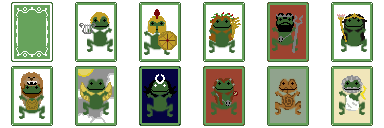
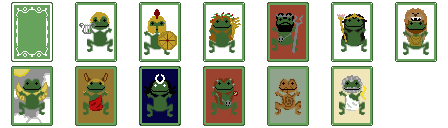
midas card!! && audio adjusted && readme update

diff --git a/README.md b/README.md
@@ -1,55 +1,8 @@
 # 3CG
 
-CMPM 121 Assignment 3\
+CMPM 121 Final Project\
 Name: Maddison Lobo\
 Game Title: 3CG -- Frogora’s Box
-
-## IMPLEMENTATION
-
-### PROGRAMMING PATTERNS
-
-A list of the programming patterns used, with a brief description of how you used them and why.
-
-STATE PATTERNS
-
-I use states to control what stage of each round the game is in: picking cards, battling, revealing, and scoring. Also to track card states in order to determine when they get placed and when they are being hovered over or idle. 
-
-UPDATE METHOD
-
-I used this pattern to iterate over the different decks, hands, and columns to get stats or make changes to certain cards within them. I use htis to regurally check and reasign or update data to refect the actions in the game. 
-
-OBJECT POOL PATTERNS
-I use this to load in the cards with the same base assets and set them all to the same size. 
-
-FLYWEIGHT PATTERN
-Data is taken from the cardValues.lua file and assigned to any asset that matches the name of the data table. Also a single sprite sheet is used for drawing the cards. 
-
-### FEEDBACK
-
-A list of people who gave you feedback on your code of helped you think through your code architecture in discussion sections, the feedback they gave you, and how you adjusted your code to it.
-
-Kayla Nguyn
-Comments: Pointed out my column power wasn't always updating properly and suggested new ways to make sure it consistently updates properly. 
-Adjustments: I would clear the value and loop through its cards before scoring to make sure it was accurate to any "on_reveal" actions or to any moved cards. 
-
-Killian Peters
-Comments: Cards look like they're "glowing" even when they are not grabbable. 
-Adjustments: I added a black overlay to cards in the player's hand that are not grabbable. 
-
-Joseph Cortez
-Comments: The board was really spread out and there was a lot of dead space.
-Adjustments: I made the screen size smaller for now to decrease the dead space. 
-
-
-### POSTMORTEM
-
-A postmortem on what you did well and what you would do differently if you were to do this project over again (maybe some programming patterns that might have been a better fit?).
-
-Improving from the solitaire project, I was able to use a spritesheet for my assets as well as add some delay or "show" to the game play so it feels less one note. Ideally for the final version I can add animation or more are to improve this even more. I implemented a button element that was missing from my solitare game as well. 
-
-I think once I got my card abilities working they functioned well and I was happy with their implementation. I still have some bits of hard coding and redundent loops that I can clean up but they don't impead things too bad. Overall my implementation is decently strong and has some good qualities but in regards to simplicity and overall flow I think there is still room for imporvement. 
-
-Design wise I think I could rework my layout to make a little more sense for the player and gameplay. Also possibly making the computer's hand visible as well would make it easier for players to stratagize certain cards.
 
 ### ASSETS
 
